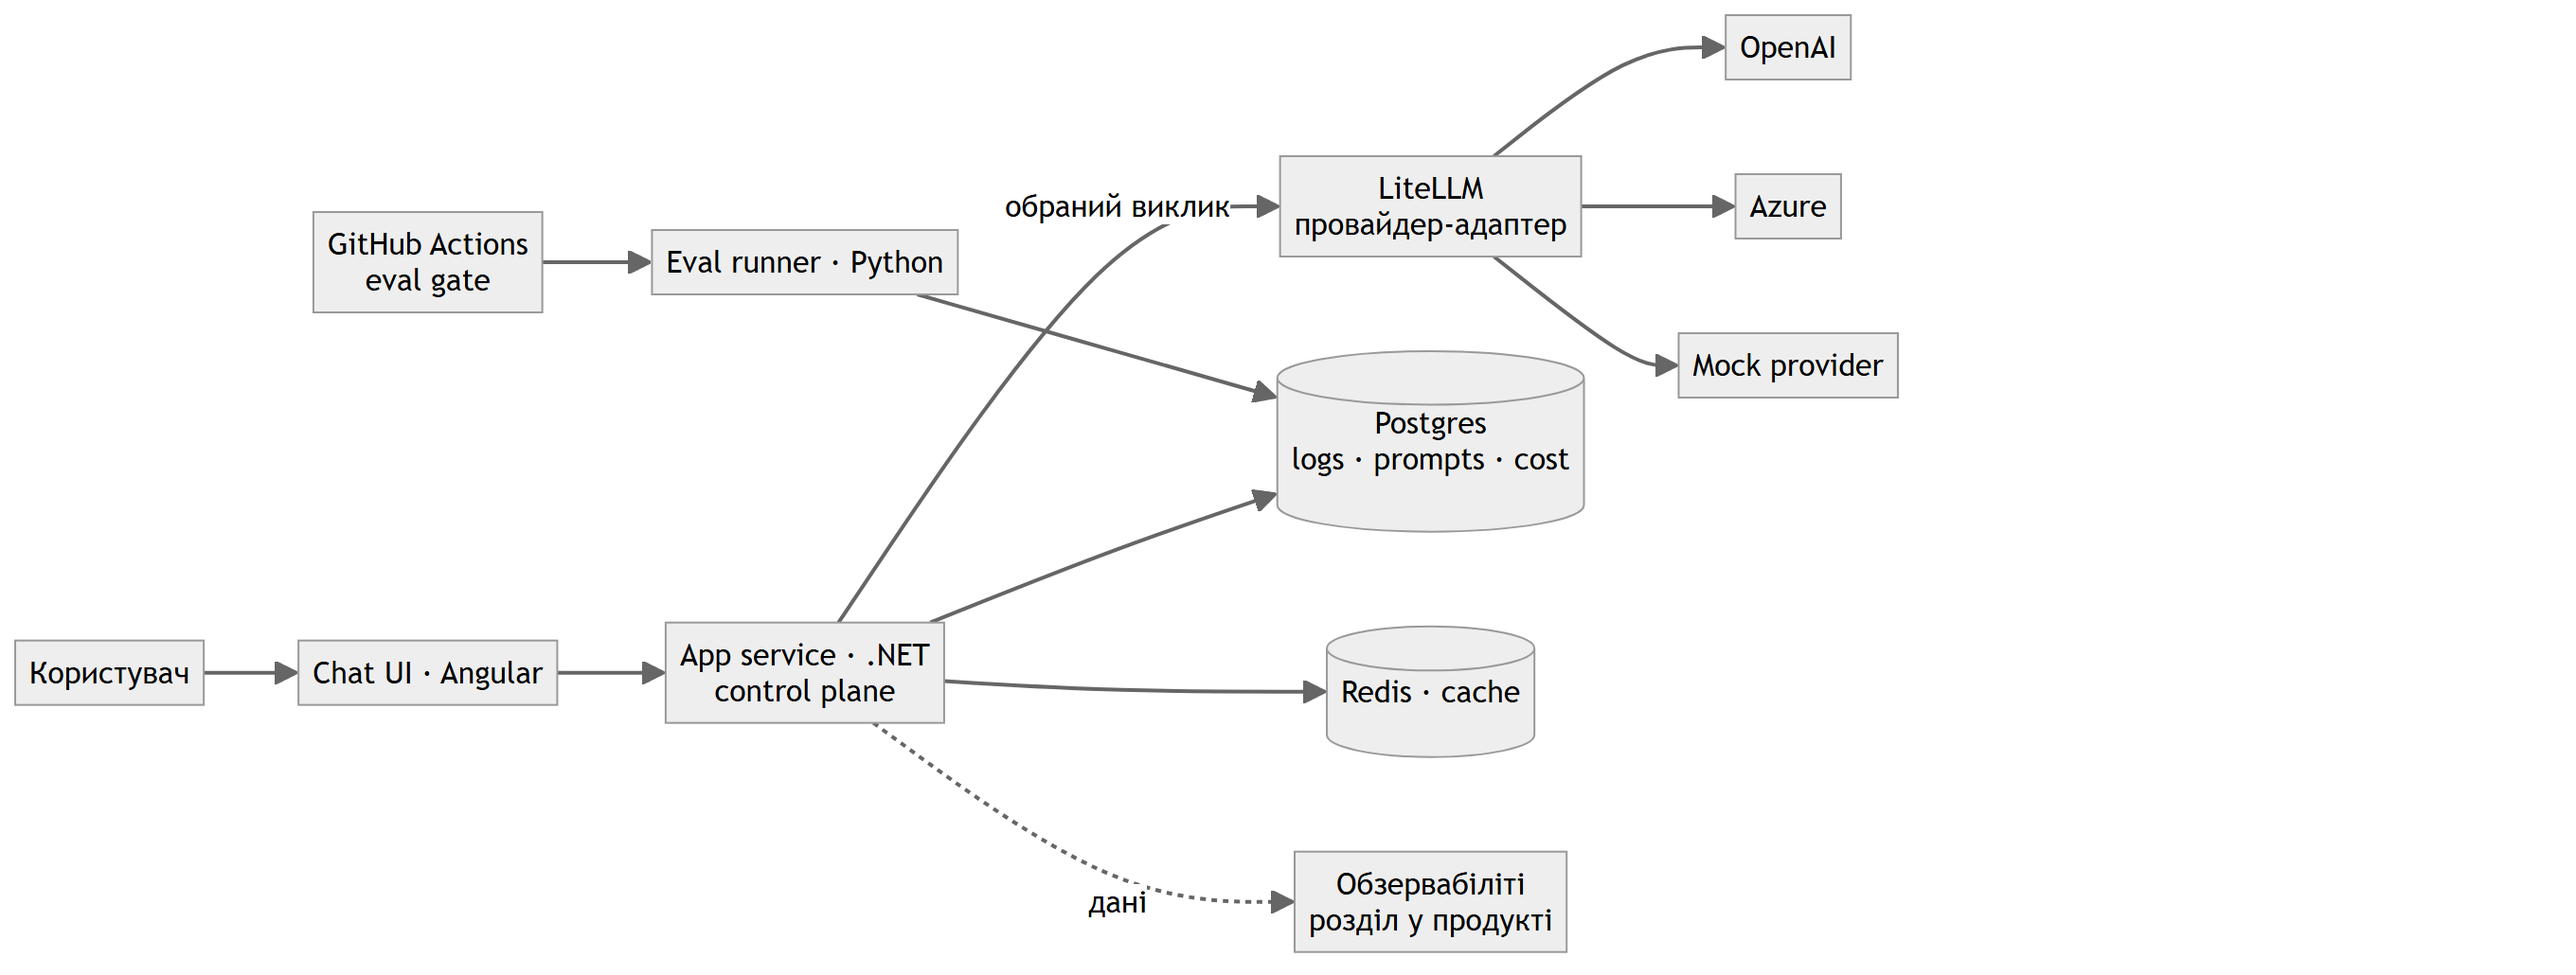
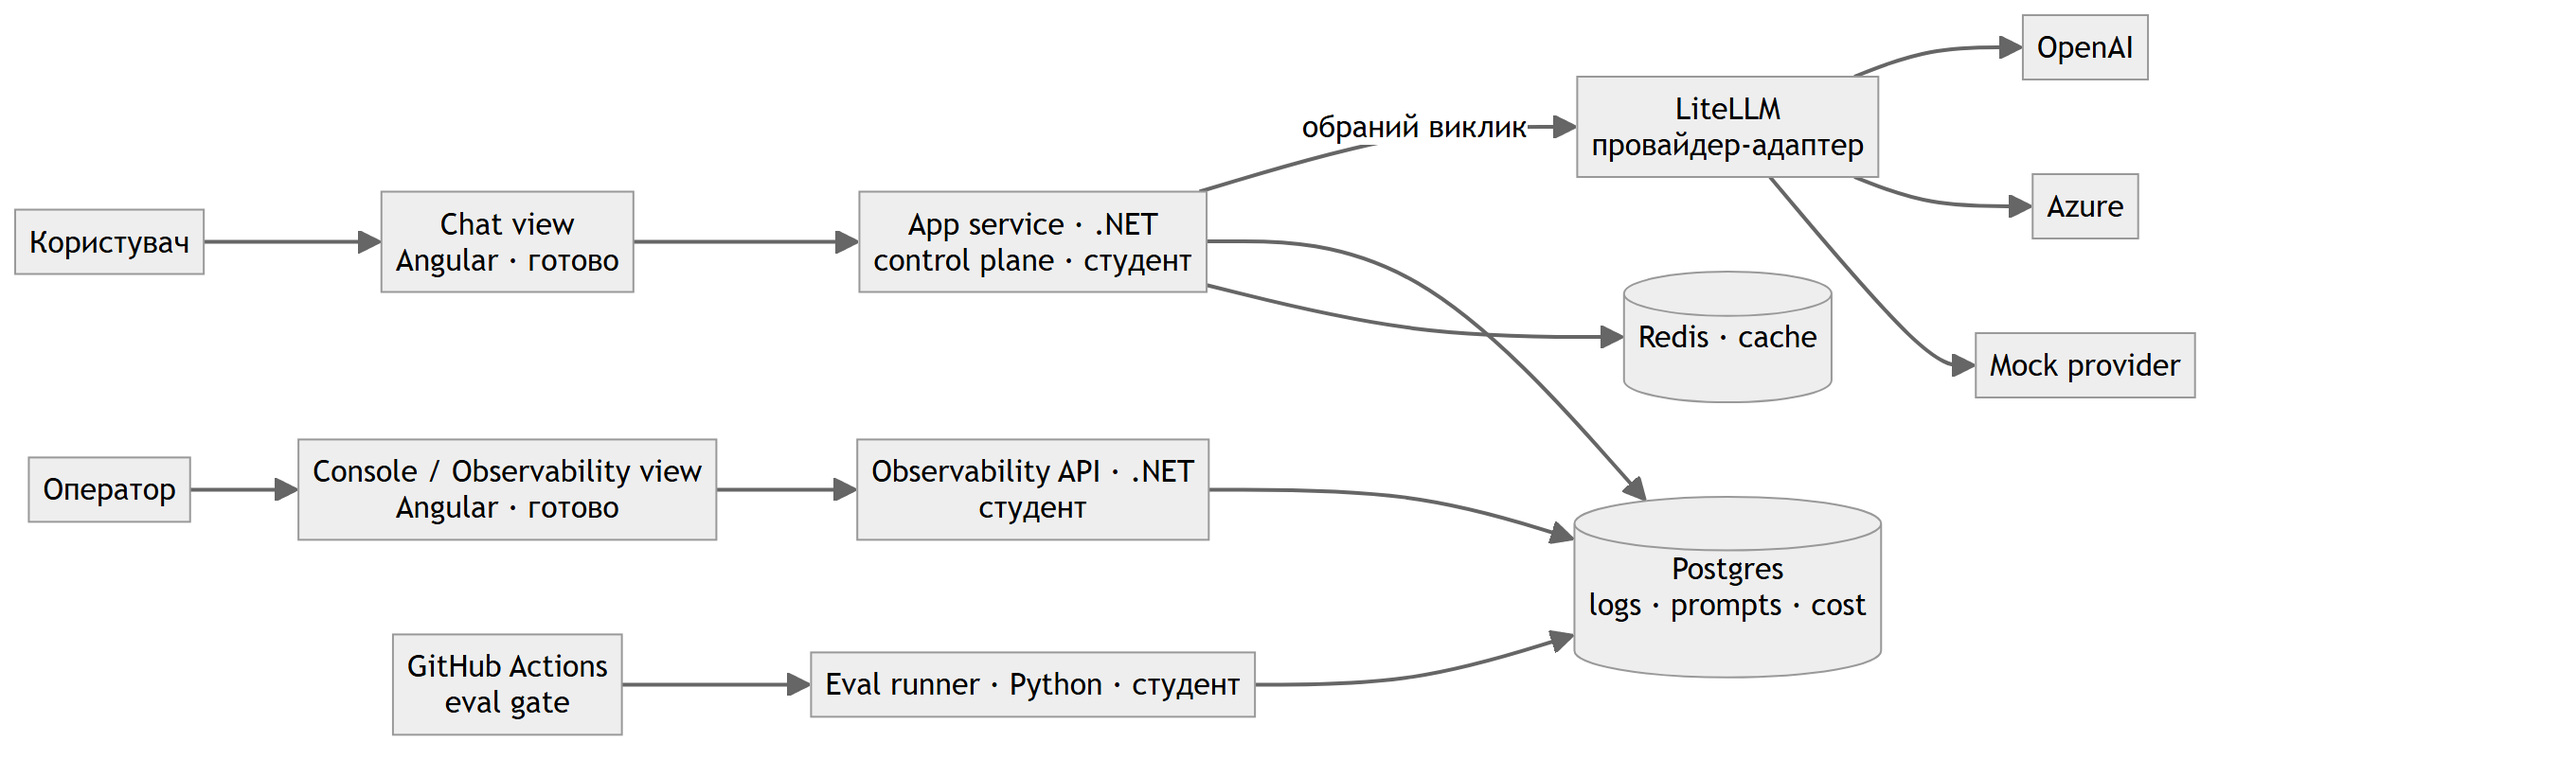
docs: place observability explicitly (Angular Console view + .NET observability API)

diff --git a/docs/architecture.md b/docs/architecture.md
@@ -3,27 +3,34 @@
 Support / helpdesk bot з LLM control plane. Control plane (routing, fallback, cost, policies)
 живе в .NET-сервісі; LiteLLM виступає провайдер-адаптером.
 
+Angular-застосунок має два розділи: **Chat** (користувач) і **Console / Observability** (оператор).
+Обидва дають готовими — студент фронтенд не пише. Логіка живе в .NET: control plane (chat) і
+observability API (console). Обзервабіліті — це console-розділ поверх .NET-API, який читає логи з Postgres.
+
 ```mermaid
 flowchart LR
-  U[Користувач] --> UI[Chat UI · Angular]
-  UI --> SVC[App service · .NET<br/>control plane]
+  U[Користувач] --> CHAT[Chat view<br/>Angular · готово]
+  OP[Оператор] --> CON[Console / Observability view<br/>Angular · готово]
+  CHAT --> SVC[App service · .NET<br/>control plane · студент]
+  CON --> OAPI[Observability API · .NET<br/>студент]
   SVC -->|обраний виклик| GW[LiteLLM<br/>провайдер-адаптер]
   GW --> P1[OpenAI]
   GW --> P2[Azure]
   GW --> MOCK[Mock provider]
   SVC --> PG[(Postgres<br/>logs · prompts · cost)]
+  OAPI --> PG
   SVC --> RED[(Redis · cache)]
-  SVC -. дані .-> OBS[Обзервабіліті<br/>розділ у продукті]
-  EV[Eval runner · Python] --> PG
+  EV[Eval runner · Python · студент] --> PG
   CI[GitHub Actions<br/>eval gate] --> EV
 ```
 
 ## Хто що робить
 
-- **UI (Angular)** — тонкий фасад, дається готовим, студент не змінює.
-- **Сервіс (.NET)** — мозок: routing (яку модель обрати), fallback, cost-облік, guardrails, HITL-approval, розділ обзервабіліті.
+- **Angular (готово)** — дві в'юхи: Chat і Console/Observability. Тонкі, даються готовими, студент їх не змінює.
+- **App service (.NET, студент)** — control plane: routing, fallback, cost-облік, guardrails, HITL-approval.
+- **Observability API (.NET, студент)** — читає логи з Postgres, віддає агрегати (traces, p95, cost, error-taxonomy) у Console-в'юху. Це і є «розділ обзервабіліті» — дані й логіка на бекенді, показ у готовій Angular-консолі.
 - **LiteLLM** — єдиний виклик до будь-якого провайдера + нормалізація відмінностей. Логіки рішень не тримає.
 - **Postgres** — логи запитів (`request_id`, model, latency, tokens, cost, prompt_version), prompt registry, cost records.
 - **Redis** — кеш (опційно, з уроку про caching).
-- **Eval runner (Python)** — golden dataset, graders, пороги.
+- **Eval runner (Python, студент)** — golden dataset, graders, пороги.
 - **GitHub Actions** — eval gate, блокує regression.

diff --git a/starter/README.md b/starter/README.md
@@ -6,8 +6,9 @@
 
 | Компонент | Дається готовим | Студент добудовує |
 |---|---|---|
-| Chat UI (Angular) | готовий тонкий UI | не змінює |
+| UI (Angular) | готові в'юхи: Chat + Console/Observability | не змінює |
 | App service (.NET) | skeleton | control plane: routing, fallback, cost, policies |
+| Observability API (.NET) | skeleton | агрегати з Postgres (traces, p95, cost, error-taxonomy) у Console-в'юху |
 | Gateway (LiteLLM) | базовий конфіг | моделі/провайдери, порядок fallback |
 | Mock provider | готовий | використовує для тестів і failure-сценаріїв |
 | Postgres | базова схема | розширює під logs / cost / prompt records |
